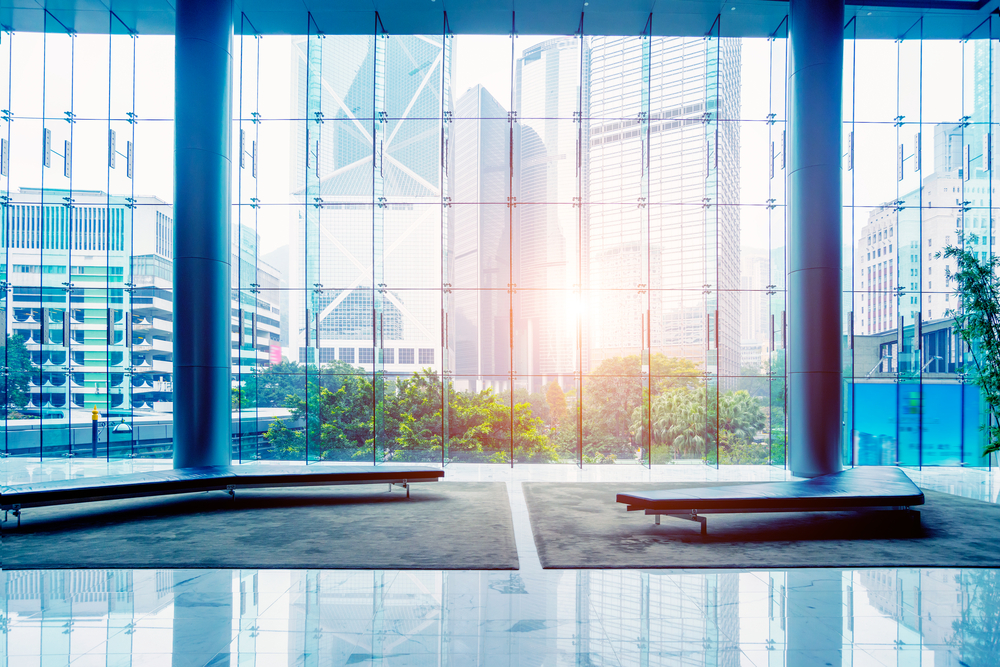
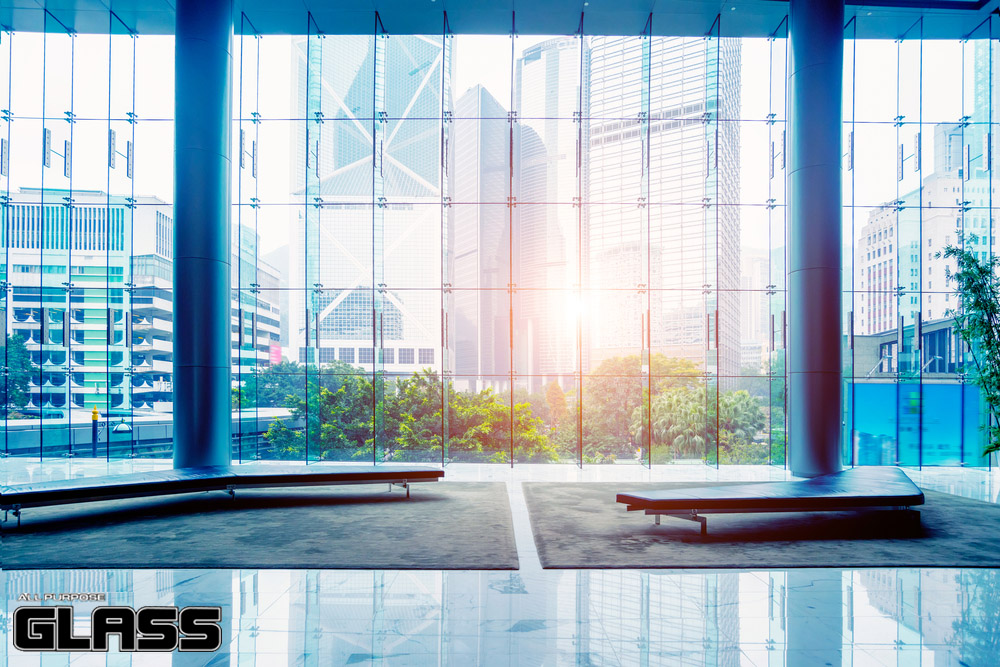
update

Changed region(s): [[0.0, 0.8696, 0.248, 0.9895]]

diff --git a/index.html b/index.html
@@ -80,12 +80,13 @@
         <div class="col-lg-12">
           <!-- <img class="img-responsive" src="img/profile.png" alt=""> -->
           <div class="intro-text">
+            <!-- <img class="img-responsive" src="img/background.png" alt="All Purpose Glass"> -->
             <span class="name">All Purpose Glass</span>
             <h3>512-268-1999 • <a class="headerb" href="http://facebook.com">Visit us on Facebook.</a></h3>
             <hr>
             <span class="skills">Locally Owned & Operated</span>
             <br><br>
-            <img src="img/portfolio/six.png" class="img-responsive img-centered" alt="">
+            <img src="img/glass-services.jpg" class="img-responsive img-centered" alt="">
           </div>
         </div>
       </div>
